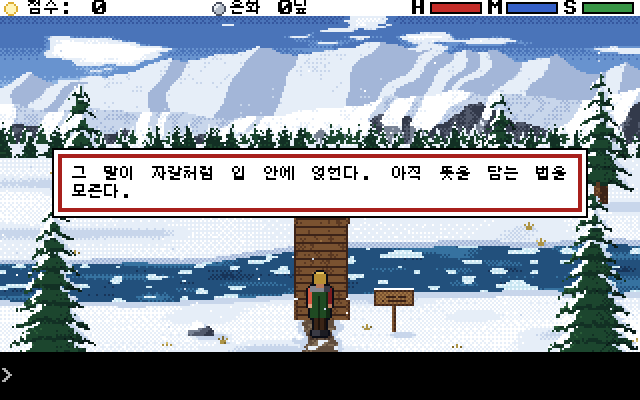
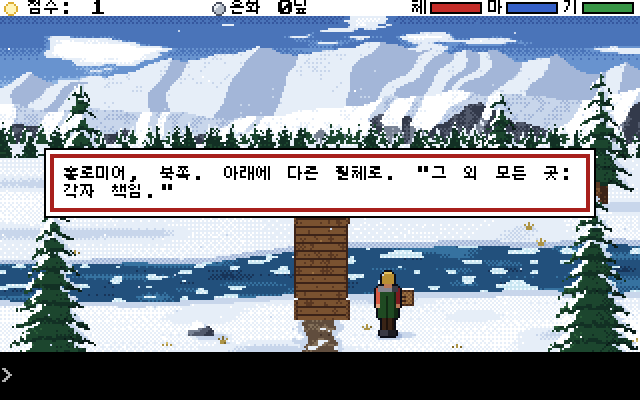
한글 README: 썸네일/스크린샷 재촬영(체/마/기 HUD), 설치·기술·라이선스 정리

diff --git a/README.md b/README.md
@@ -1,67 +1,48 @@
-# 테인의 모험 (Thane's Quest 한국어판)
+# 테인의 모험 (Thane's Quest) — 한국어판
 
-![테인의 모험](shots/card.png)
+![마을 화면](shots/village.png)
 
-얼어붙은 골짜기를 배경으로 한 오픈월드 액션 RPG입니다. 초기 타이핑 어드벤처의 껍데기 안에
-실시간 전투를 얹었고, 모든 것을 클릭·탭·숫자 키로 할 수 있습니다. 직접 입력하면 그 이상도
-됩니다.
+눈 덮인 북쪽 땅, 맨몸으로 걸어온 한 사람이 홀로미어 마을에 닿는다. 텍스트 명령으로 노는 픽셀아트 오픈월드 어드벤처 **Thane's Quest**의 한국어판입니다. 설치 없이 브라우저에서 바로 플레이할 수 있습니다.
 
-**이 저장소는 한국어판입니다.** 방 묘사·대사·메뉴·안내 문구까지 전부 한국어로 옮겼고,
-명령도 한국어로 입력할 수 있습니다(영문 명령도 그대로 동작합니다).
+**지금 플레이: https://sigco3111.github.io/thanes-quest-ko/**
 
-## 지금 플레이
+## 주요 특징
 
-https://sigco3111.github.io/thanes-quest-ko/
-
-저장은 브라우저에, 주소별로 보관됩니다.
+- 지문·대화·메뉴·도움말·HUD까지 게임 내 사용자 노출 문자열 전체 한국어화
+- 한국어 명령 입력("표지판 읽어", "도끼 가져가", "대화")과 영어 명령("read sign", "take hatchet") 동시 지원
+- 모바일 터치 화면: 방향 패드, 상황별 명령 버튼("통나무를 화로에 놓기" 등), 한글 웹폰트(Galmuri7) 적용
+- 저장/불러오기, 지도, 일지, 인물, 위업 등 원작 시스템 그대로
 
 ## 스크린샷
 
-| | |
-|---|---|
-| ![마을](shots/village.png) | ![마르타와 대화](shots/talk.png) |
-| ![메뉴](shots/menu.png) | ![멈춘 눈 사이 길](shots/still.png) |
+| 표지판 읽기 | 메뉴 |
+| --- | --- |
+| ![표지판](shots/still.png) | ![메뉴](shots/menu.png) |
 
-## 명령 입력 예시
+| NPC 대화 | 모바일 명령 버튼 |
+| --- | --- |
+| ![대화](shots/talk.png) | ![모바일](shots/mobile.png) |
 
-한국어와 영어를 섞어 써도 됩니다.
+## 설치 및 실행
 
-- `봐` / `look` — 둘러보기
-- `표지판 읽어` / `read sign`
-- `도끼 가져가` / `take hatchet`
-- `도끼 장비` / `equip hatchet`
-- `마르타와 이야기` / `talk to marta`
-- `장로에게 고분 물어봐` / `ask elder about the barrow`
-- `가방` / `bag`, `일지` / `journal`, `저장하기`·`불러오기`(메뉴)
-
-## 직접 돌리기
+GitHub Pages 배포본은 위 링크에서 바로 플레이할 수 있습니다. 로컬에서 실행하려면:
 
 ```bash
 npm install
-npm run dev
+npm run dev      # 개발 서버
+npm run build    # 프로덕션 빌드 (dist/)
+npm test         # 테스트 (279개)
 ```
 
-Vite가 출력하는 주소(보통 http://localhost:5173/)를 열면 됩니다.
+## 기술 메모
 
-| 명령 | 설명 |
-|---|---|
-| `npm run dev` | 개발 서버(디버그 명령 활성) |
-| `npm test` | 단위 테스트 + 게임 전체를 헤드리스로 끝까지 플레이하는 워크스루 테스트 |
-| `npm run typecheck` | 타입 검사만 |
-| `npm run build` | 배포용 빌드 |
+- 원작의 수작업 픽셀 폰트 렌더링을 그대로 두고, 한글 음절은 Galmuri7에서 래스터화해 캔버스에 그립니다 (src/engine/kofont.ts).
+- DOM(UI 버튼, 패널, 입력창)에는 사용 글자만 담은 Galmuri7 서브셋 웹폰트(약 63KB)를 @font-face로 적용해 한글 시스템 폰트가 없는 환경에서도 깨지지 않습니다.
+- 명령 파서는 한국어 동사/명사 어휘를 추가해 원래 영어 파서와 같은 규칙으로 처리하며, 영어 명령과 완전히 호환됩니다.
+- 룬 문자(VETH/ISKA/ORUN/SOL)는 원작 설정 그대로 라틴 문자로 표기합니다.
 
-## 번역에 대해
+## 라이선스 및 크레딧
 
-- 모든 사용자 노출 문자열(방 묘사, 대사, 표지판, 메뉴, 도움말, 시스템 메시지)을 한국어로
-  옮겼고, 테스트의 기대 문구도 실제 한국어 출력 기준으로 맞췄습니다. 테스트 279개 전부 통과.
-- 한국어 글꼴은 **Galmuri7**(이민서, SIL Open Font License 1.1)을 8x8 비트맵으로 변환해
-  사용합니다. 원본: https://github.com/quiple/galmuri — 라이선스 전문은
-  [assets/fonts/Galmuri7-OFL.md](assets/fonts/Galmuri7-OFL.md)에 함께 넣었습니다.
-- 룬 문자(VETH, ISKA, ORUN, SOL)는 원작처럼 라틴 문자 그대로 입력합니다.
-
-## 원작과 라이선스
-
-원작은 rdhelms의 **Thane's Quest**(https://github.com/rdhelms/thanes-quest)입니다.
-세계·이름·등장인물·그림·소리·문장 전부 원작자의 오리지널이며, MIT 라이선스로
-무엇에든 자유롭게 쓰고 고치고 나눌 수 있습니다([LICENSE](LICENSE) 참조). 한국어 번역도
-같은 조건으로 둡니다.
+- 원작: **Thane's Quest** by rdhelms — https://github.com/rdhelms/thanes-quest (MIT License, "Everything in it is original and free to use")
+- 한글 픽셀 폰트: **Galmuri7** (c) 2019-2025 Lee Minseo — SIL Open Font License 1.1 (사본: assets/fonts/Galmuri7-OFL.md)
+- 한국어화: sigco3111 — 원작과 동일하게 MIT License
